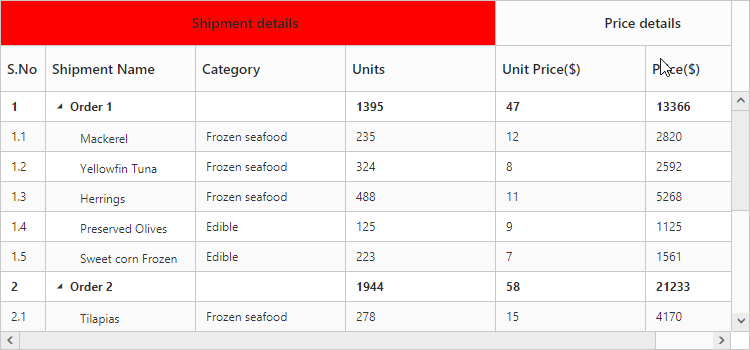
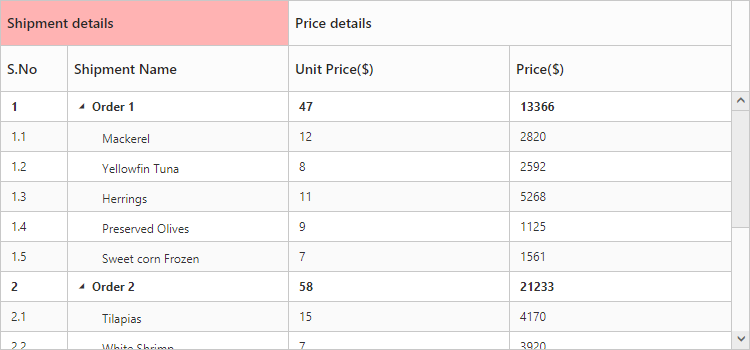
Image is modified and committed

diff --git a/js/TreeGrid/Stacked-Header.md b/js/TreeGrid/Stacked-Header.md
@@ -59,7 +59,7 @@ You can provide external CSS styles to the stacked header with the help of cssCl
 
 <style>
   .stack {
-            background-color: red; 
+            background-color: #ffb3b3; 
         }
 </style>
 
